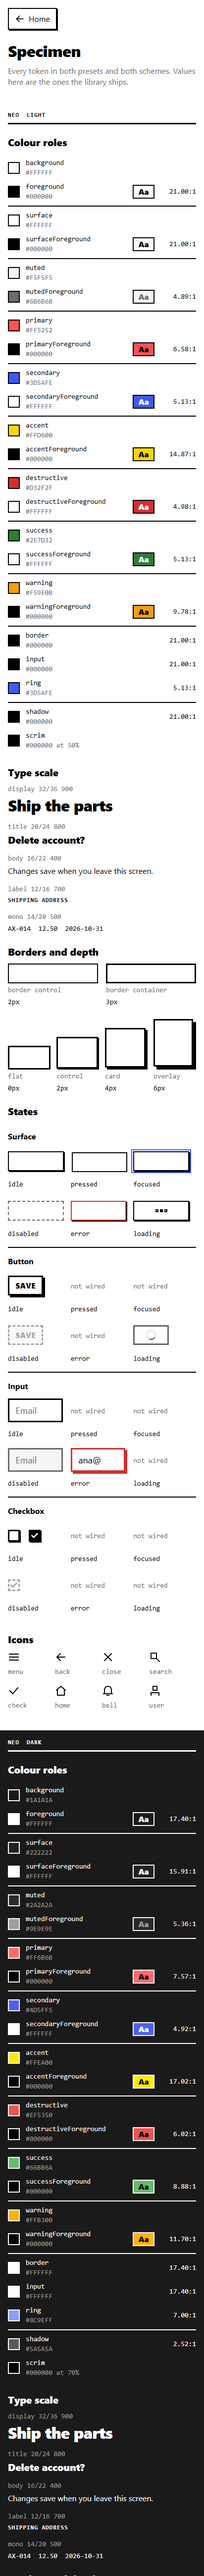
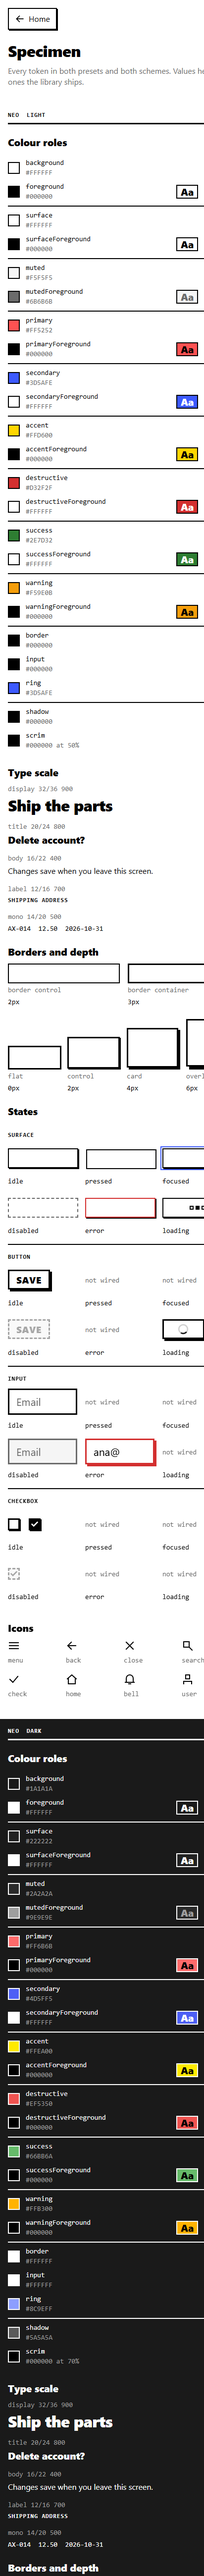
fix(ui): B0 review fixes (loading look, no native elevation, web focus-visible)

diff --git a/demo/__tests__/brutal-surface.test.tsx b/demo/__tests__/brutal-surface.test.tsx
@@ -143,3 +143,37 @@ describe('usePressPhysics', () => {
     expect(api.pressed.value).toBe(0);
   });
 });
+
+describe('BrutalSurface native shadows', () => {
+  it('sets no elevation on the shadow, surface or ring', async () => {
+    await renderWithTheme(<BrutalSurface focused testID="s"><Text>x</Text></BrutalSurface>);
+    for (const id of ['brutal-surface-shadow', 's', 'brutal-surface-ring']) {
+      const style = StyleSheet.flatten(screen.getByTestId(id, HIDDEN).props.style);
+      expect(style.elevation ?? 0).toBe(0);
+    }
+  });
+});
+
+describe('BrutalSurface web focus', () => {
+  const { Platform } = require('react-native');
+  const original = Platform.OS;
+  afterEach(() => {
+    Platform.OS = original;
+  });
+
+  const focusWith = async (matches: boolean) => {
+    Platform.OS = 'web';
+    await renderWithTheme(<BrutalSurface testID="s"><Text>x</Text></BrutalSurface>);
+    await fireEvent(screen.getByTestId('s'), 'focus', { target: { matches: () => matches } });
+  };
+
+  it('shows no ring for pointer focus', async () => {
+    await focusWith(false);
+    expect(screen.queryByTestId('brutal-surface-ring', HIDDEN)).toBeNull();
+  });
+
+  it('shows the ring for keyboard focus', async () => {
+    await focusWith(true);
+    expect(screen.getByTestId('brutal-surface-ring', HIDDEN)).toBeTruthy();
+  });
+});

diff --git a/packages/ui/components/button.tsx b/packages/ui/components/button.tsx
@@ -48,7 +48,6 @@ export interface ButtonProps {
   accessibilityHint?: string;
 }
 
-
 // ---------------------------------------------------------------------------
 // Component
 // ---------------------------------------------------------------------------
@@ -87,8 +86,8 @@ export function Button({
   const v = variants[variant];
   const s = sizes[size];
   const height = controlHeight[size];
-  // Loading keeps the variant's colours (it is in flight, not unavailable) but
-  // sinks into its shadow. Disabled goes muted + dashed so it is not colour-only.
+  // Loading keeps the variant's colours, border and shadow (it is in flight, not
+  // unavailable); only presses are swallowed. Disabled goes muted + dashed so it is not colour-only.
   const fg = disabled ? colors.mutedForeground : v.fg;
 
   return (
@@ -105,8 +104,8 @@ export function Button({
         justifyContent: 'center',
       }}
       elevation={v.hasShadow ? 'card' : 'flat'}
-      disabled={disabled || loading}
-      onPress={onPress}
+      disabled={disabled}
+      onPress={loading ? undefined : onPress}
       hitSlop={Math.max(0, Math.ceil((touchTarget - height) / 2))}
       accessibilityRole="button"
       accessibilityLabel={accessibilityLabel ?? (typeof label === 'string' || typeof label === 'number' ? String(label) : undefined)}

diff --git a/packages/ui/components/brutal-surface.tsx b/packages/ui/components/brutal-surface.tsx
@@ -1,5 +1,6 @@
 import { useEffect, useState, type ReactNode } from 'react';
 import {
+  Platform,
   Pressable,
   type GestureResponderEvent,
   type PressableProps,
@@ -138,7 +139,9 @@ export function BrutalSurface({
           onPressIn={handleInnerPressIn}
           onPressOut={handleInnerPressOut}
           onFocus={(e) => {
-            setHasFocus(true);
+            // react-native-web focuses a Pressable on mouse click; the ring is for keyboard focus only.
+            const target = e?.target as unknown as { matches?: (s: string) => boolean } | undefined;
+            if (Platform.OS !== 'web' || target?.matches?.(':focus-visible') !== false) setHasFocus(true);
             onFocus?.(e);
           }}
           onBlur={(e) => {
@@ -207,9 +210,9 @@ function NonInteractiveSurface({
 
 const styles = StyleSheet.create({
   root: { position: 'relative' },
-  shadow: { position: 'absolute', zIndex: 1, elevation: 0 },
-  surface: { position: 'relative', zIndex: 2, elevation: 2, borderRadius: 0 },
-  ring: { position: 'absolute', zIndex: 3, elevation: 3 },
+  shadow: { position: 'absolute', zIndex: 1 },
+  surface: { position: 'relative', zIndex: 2, borderRadius: 0 },
+  ring: { position: 'absolute', zIndex: 3 },
 });
 
 export default BrutalSurface;

diff --git a/demo/__tests__/button-loading.test.tsx b/demo/__tests__/button-loading.test.tsx
@@ -1,0 +1,23 @@
+import { StyleSheet } from 'react-native';
+import { screen, userEvent } from '@testing-library/react-native';
+import { Button } from '@apexrn/ui';
+import { renderWithTheme } from './utils/render';
+
+describe('Button loading', () => {
+  it('keeps the live look: solid border, full opacity, shadow', async () => {
+    await renderWithTheme(<Button loading>Save</Button>);
+    const root = screen.getByRole('button');
+    const surface = StyleSheet.flatten(root.props.style);
+    expect(surface.borderStyle).not.toBe('dashed');
+    expect(surface.opacity).not.toBe(0.6);
+    expect(screen.getByTestId('brutal-surface-shadow')).toBeTruthy();
+  });
+
+  it('swallows presses while loading', async () => {
+    const onPress = jest.fn();
+    await renderWithTheme(<Button loading onPress={onPress}>Save</Button>);
+    // userEvent drives the host responder handlers; fireEvent.press would walk up to Button's own onPress prop.
+    await userEvent.setup().press(screen.getByRole('button'));
+    expect(onPress).not.toHaveBeenCalled();
+  });
+});

diff --git a/demo/src/screens/specimen/StateMatrix.tsx b/demo/src/screens/specimen/StateMatrix.tsx
@@ -104,7 +104,7 @@ export function StateMatrix() {
         <Fragment key={row.name}>
           {i > 0 ? <Separator /> : null}
           <View style={styles.row}>
-            <Text variant="body" style={styles.name}>{row.name}</Text>
+            <Text variant="label">{row.name}</Text>
             <View style={styles.grid}>
               {STATES.map((state) => (
                 <View key={state} style={styles.cell}>
@@ -124,7 +124,6 @@ export function StateMatrix() {
 
 const styles = StyleSheet.create({
   row: { paddingVertical: 16, gap: 12 },
-  name: { fontWeight: '700' },
   grid: { flexDirection: 'row', flexWrap: 'wrap', rowGap: 16 },
   // space-between pins each state name to the cell bottom, so names line up across a row of mixed heights.
   cell: { width: '33.333%', paddingRight: 12, gap: 8, justifyContent: 'space-between' },

diff --git a/demo/src/screens/specimen/ColourRoles.tsx b/demo/src/screens/specimen/ColourRoles.tsx
@@ -39,7 +39,7 @@ function RoleRow({ role, on }: { role: Role; on?: Role }) {
       <View style={styles.sampleSlot}>
         {isText && on ? (
           <View style={[styles.sample, { backgroundColor: colors[on], borderColor: colors.border }]}>
-            <Text variant="body" tone="inherit" style={[styles.sampleText, { color: value }]}>Aa</Text>
+            <Text variant="title" tone="inherit" style={{ color: value }}>Aa</Text>
           </View>
         ) : null}
       </View>
@@ -70,6 +70,5 @@ const styles = StyleSheet.create({
   name: { flex: 1, minWidth: 0 },
   sampleSlot: { width: 44 },
   sample: { height: 28, borderWidth: borderWidths.control, alignItems: 'center', justifyContent: 'center' },
-  sampleText: { fontWeight: '800' },
   reading: { width: 72, textAlign: 'right' },
 });

diff --git a/packages/ui/components/input.tsx b/packages/ui/components/input.tsx
@@ -67,10 +67,6 @@ export interface InputProps extends TextInputProps {
 }
 
 // ---------------------------------------------------------------------------
-// Design tokens
-// ---------------------------------------------------------------------------
-
-// ---------------------------------------------------------------------------
 // Component
 // ---------------------------------------------------------------------------
 const Input = forwardRef<TextInput, InputProps>(({

diff --git a/packages/ui/components/card.tsx b/packages/ui/components/card.tsx
@@ -70,11 +70,6 @@ export function CardText({ tone = 'body', style, ...rest }: CardTextProps) {
 }
 
 // ---------------------------------------------------------------------------
-// Design tokens
-// ---------------------------------------------------------------------------
-
-
-// ---------------------------------------------------------------------------
 // Sub-components
 // ---------------------------------------------------------------------------
 

diff --git a/packages/ui/components/badge.tsx b/packages/ui/components/badge.tsx
@@ -32,10 +32,6 @@ export interface BadgeProps extends ViewProps {
 }
 
 // ---------------------------------------------------------------------------
-// Design tokens
-// ---------------------------------------------------------------------------
-
-// ---------------------------------------------------------------------------
 // Component
 // ---------------------------------------------------------------------------
 export function Badge({

diff --git a/packages/ui/components/app-bar.tsx b/packages/ui/components/app-bar.tsx
@@ -62,10 +62,6 @@ export interface AppBarActionProps {
 }
 
 // ---------------------------------------------------------------------------
-// Design tokens
-// ---------------------------------------------------------------------------
-
-// ---------------------------------------------------------------------------
 // Components
 // ---------------------------------------------------------------------------
 export function AppBar({

diff --git a/packages/ui/lib/loading-blocks.tsx b/packages/ui/lib/loading-blocks.tsx
@@ -26,7 +26,7 @@ function Block({ index, step, color, size, still }: { index: number; step: Share
   );
 }
 
-export function LoadingBlocks({ color, size = 6 }: { color: string; size?: number }) {
+export function LoadingBlocks({ color, size = 8 }: { color: string; size?: number }) {
   const { reduceMotion } = useMotion();
   const step = useSharedValue(0);
 

diff --git a/packages/ui/lib/colors.ts b/packages/ui/lib/colors.ts
@@ -148,7 +148,7 @@ const rawDark: ColorScheme = {
   input: '#F2F0EB',
   ring: '#F2F0EB',
   shadow: '#5A5750',
-  scrim: '#000000',
+  scrim: '#111111',
 };
 
 export const presets: Record<PresetName, Preset> = {
